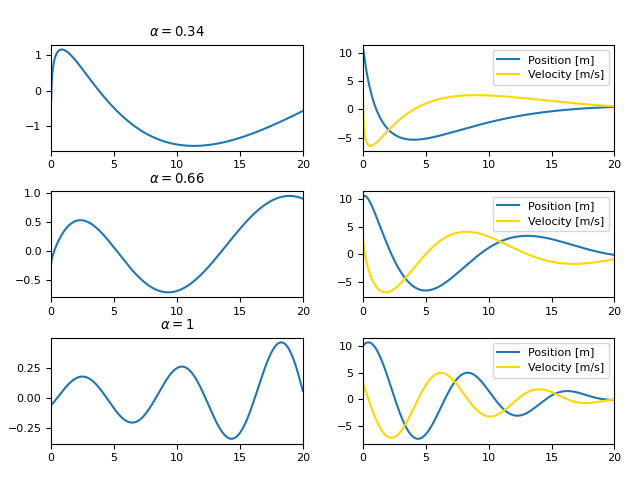
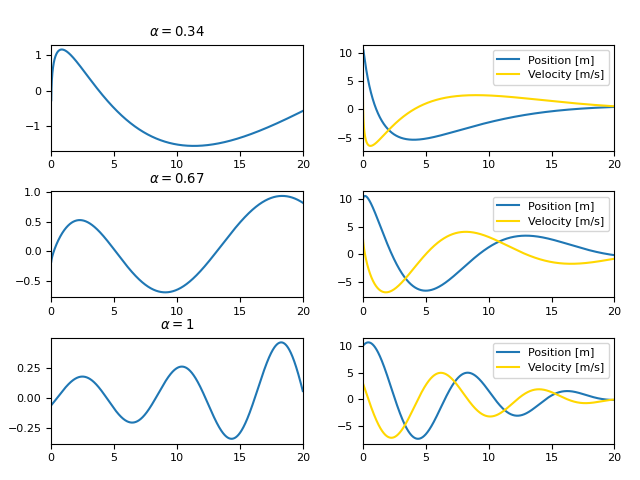
Reproduced examples

diff --git a/example4-4.py b/example4-4.py
@@ -1,0 +1,108 @@
+import numpy as np
+from numpy.ma import sin, cos
+import matplotlib.pyplot as plt
+from sys import argv
+
+def z1(t):
+	return np.piecewise(t, [0 <= t < 1, 1 <= t < 2, 2 <= t <= 3],
+					[lambda t: cos(2 * np.pi * t),
+					 lambda t: t ** 2 * (1 - t) / 2,
+					 lambda t: cos(4 * np.pi * t) / 2 + 1])
+
+def z2(t):
+	return np.piecewise(t, [0 <= t < 1, 1 <= t < 2, 2 <= t <= 3],
+					[lambda t: 1.2 * t ** 2 * (1 - t),
+					 lambda t: cos(2 * np.pi * t),
+					 lambda t: sin(4 * np.pi * t) / 5 - 0.5])
+
+def z(t):
+	return np.c_[[z1(t), z2(t)]]
+
+# setting up the system
+A = np.matrix('-9  4   4.5 -2;' \
+			  '-3  0.4 0.7 -6;' \
+			  ' 5  0.3 5    3;' \
+			  ' 4 -2.5 2    3', dtype=np.longdouble)
+B = np.matrix(' 1    1.5 0  ;' \
+			  ' 0.3  2   0.4;' \
+			  ' 0.3 -0.3 0  ;' \
+			  '-0.3 -1   0.5', dtype=np.longdouble)
+C = np.matrix(' 1 0 2  1;' \
+			  '-1 1 0 -1', dtype=np.longdouble)
+Q = 10 ** 4 * np.identity(2)
+tf = 3
+dt = 0.0005
+t_dis = np.arange(0, tf + dt, dt)
+Sf = np.zeros((4, 4))
+vf = np.zeros((4, 1))
+
+# these are the conformable derivatives we want
+alphas = [0.34, 0.67, 1]
+
+# set up plotting
+plt.rcParams["font.size"] = 8
+fig, axes = plt.subplots(len(alphas), 2)
+fig.tight_layout(rect=(0, 0, 1, 0.95), pad=1.5)
+
+# loop over rows of plot and alphas
+for axis, alpha in zip(axes, alphas):
+	# S is an empty array of matrices
+	# with last element given by Sf
+	S = np.empty((t_dis.size, 4, 4), dtype=np.longdouble)
+	S[-1] = Sf
+
+	# loop backward and do Euler's method to find S
+	# this solves the Ricatti equation
+	for i in range(t_dis.size - 1, 0, -1):
+		dSdt = -(dt * (i + 1)) ** (alpha - 1) * (A.T @ S[i] + S[i] @ (A - B @ B.T @ S[i]) + C.T @ Q @ C)
+		S[i - 1] = S[i] - dt * dSdt;
+
+	# v is an output equation or something idk
+	# it's needed to solve for stuff
+	# in example 4.1, it was 0
+	v = np.empty((t_dis.size, 4, 1), dtype=np.longdouble)
+	v[-1] = vf
+
+	for i in range(t_dis.size - 1, 0, -1):
+		dvdt = -(dt * (i + 1)) ** (alpha - 1) * ((A - B @ B.T @ S[i]).T @ v[i] + C.T @ Q @ z(dt * (i + 1)))
+		v[i - 1] = v[i] - dt * dvdt
+
+	# x is an array of column vectors
+	x = np.empty((t_dis.size, 4, 1), dtype=np.longdouble)
+	x[0] = np.c_[[-0.25, -0.5, 0.25, -0.3]]
+	# u is an array of real #s
+	u = np.empty((t_dis.size, 3, 1), dtype=np.longdouble)
+
+	# loop forward and solve state space equation
+	# this also uses Euler's method as far as I can tell
+	for i in range(0, t_dis.size - 1):
+		u[i] = -B.T @ S[i] @ x[i] + B.T @ v[i]
+		x[i + 1] = x[i] + (dt * (i + 2)) ** (alpha - 1) * dt * (A @ x[i] + B @ u[i])
+	u[-1] = -B.T @ S[-1] @ x[-1] + B.T @ v[-1]
+
+	# plot u1 and u2 (1st column)
+	axis[0].plot(t_dis, u[:,0], label='$u_1(t)$')
+	axis[0].plot(t_dis, u[:,1], label='$u_2(t)$', color='gold')
+	axis[0].plot(t_dis, u[:,2], label='$u_3(t)$', color='green')
+	axis[0].set_title(f'$\\alpha = {alpha}$')
+	axis[0].legend()
+	axis[0].margins(x=0)
+
+	# plot y1 and y2 (2nd column)
+	y = C @ x
+	axis[1].plot(t_dis, y[:,0], label='$y_1(t)$')
+	axis[1].plot(t_dis, y[:,1], label='$y_2(t)$', color='gold')
+	axis[1].legend()
+	axis[1].margins(x=0)
+
+# axes[0, 0].set_ylim(-10, 5.5)
+axes[0, 0].set_ylim(-15, 15)
+axes[0, 1].set_ylim(-2, 2)
+axes[1, 0].set_ylim(-15, 15)
+axes[2, 0].set_ylim(-15, 15)
+# you can use -s to save the plot to a file
+# generally you don't want to do this
+if len(argv) == 2 and argv[1] == '-s':
+	plt.savefig(argv[0][:-3] + '.png')
+else:
+	plt.show()

diff --git a/example4-3.py b/example4-3.py
@@ -1,0 +1,96 @@
+import numpy as np
+from numpy.ma import sin, cos
+import matplotlib.pyplot as plt
+from sys import argv
+
+def z(t):
+	return np.c_[[sin(t), cos(t)]]
+
+# setting up the system
+A = np.matrix(' 0.809 -2.060  0.325  0.465  0.895;' \
+			  ' 6.667  0.200  1.333  0      0.667;' \
+			  '-1.291  0.458 -1.072 -2.326 -0.199;' \
+			  '-0.324  0.824  1.670 -1.186 -0.358;' \
+			  '-3.509 -4.316 -0.702  0     -8.351')
+B = np.matrix(' 0.955 -0.379;' \
+			  '-1.667 -1.667;' \
+			  '-0.212  1.195;' \
+			  ' 0.618  0.052;' \
+			  ' 0.877  1.403')
+C = np.matrix('2 0   1 0   0;' \
+			  '0 1.5 0 1.2 1')
+Q = 10 ** 3 * np.identity(2)
+tf = 6
+dt = 0.001
+t_dis = np.arange(0, tf + dt, dt)
+Sf = np.zeros((5, 5))
+vf = np.zeros((5, 1))
+
+# these are the conformable derivatives we want
+alphas = [0.34, 0.67, 1]
+
+# set up plotting
+plt.rcParams["font.size"] = 8
+fig, axes = plt.subplots(len(alphas), 2)
+fig.tight_layout(rect=(0, 0, 1, 0.95), pad=1.5)
+
+# loop over rows of plot and alphas
+for axis, alpha in zip(axes, alphas):
+	# S is an empty array of matrices
+	# with last element given by Sf
+	S = np.empty((t_dis.size, 5, 5))
+	S[-1] = Sf
+
+	# loop backward and do Euler's method to find S
+	# this solves the Ricatti equation
+	for i in range(t_dis.size - 1, 0, -1):
+		dSdt = -(dt * (i + 1)) ** (alpha - 1) * (A.T @ S[i] + S[i] @ (A - B @ B.T @ S[i]) + C.T @ Q @ C)
+		S[i - 1] = S[i] - dt * dSdt;
+
+	# v is an output equation or something idk
+	# it's needed to solve for stuff
+	# in example 4.1, it was 0
+	v = np.empty((t_dis.size, 5, 1))
+	v[-1] = vf
+
+	for i in range(t_dis.size - 1, 0, -1):
+		dvdt = -(dt * (i + 1)) ** (alpha - 1) * ((A - B @ B.T @ S[i]).T @ v[i] + C.T @ Q @ z(dt * (i + 1)))
+		v[i - 1] = v[i] - dt * dvdt
+
+	# x is an array of column vectors
+	x = np.empty((t_dis.size, 5, 1))
+	x[0] = np.c_[[0.05, 0.05, 0.05, 0.05, 0.05]]
+	# u is an array of real #s
+	u = np.empty((t_dis.size, 2, 1))
+
+	# loop forward and solve state space equation
+	# this also uses Euler's method as far as I can tell
+	for i in range(0, t_dis.size - 1):
+		u[i] = -B.T @ S[i] @ x[i] + B.T @ v[i]
+		x[i + 1] = x[i] + (dt * (i + 2)) ** (alpha - 1) * dt * (A @ x[i] + B @ u[i])
+	u[-1] = -B.T @ S[-1] @ x[-1] + B.T @ v[-1]
+
+	# plot u1 and u2 (1st column)
+	axis[0].plot(t_dis, u[:,0], label='$u_1(t)$')
+	axis[0].plot(t_dis, u[:,1], label='$u_2(t)$', color='gold')
+	axis[0].set_title(f'$\\alpha = {alpha}$')
+	axis[0].legend()
+	axis[0].margins(x=0)
+
+	# plot y1 and y2 (2nd column)
+	y = C @ x
+	axis[1].plot(t_dis, y[:,0], label='$y_1(t)$')
+	axis[1].plot(t_dis, y[:,1], label='$y_2(t)$', color='gold')
+	axis[1].legend()
+	axis[1].margins(x=0)
+
+axes[0, 0].set_ylim(-10, 5.5)
+axes[0, 1].set_ylim(-1.2, 1.2)
+axes[1, 0].set_ylim(-10, 5.5)
+axes[2, 0].set_ylim(-10, 5.5)
+# you can use -s to save the plot to a file
+# generally you don't want to do this
+if len(argv) == 2 and argv[1] == '-s':
+	plt.savefig(argv[0][:-3] + '.png')
+else:
+	plt.show()

diff --git a/example4-2.py b/example4-2.py
@@ -15,7 +15,6 @@ A = np.matrix([[0, 1], [-omega ** 2, -2 * delta * omega]])
 B = np.c_[[0, 1]]
 C = np.matrix('1 0')
 q = 0.001
-r = 1
 p = 3
 tf = 50
 dt = 0.001
@@ -24,7 +23,7 @@ Sf = p * C.T @ C
 vf = C.T * p * z(tf)
 
 # these are the conformable derivatives we want
-alphas = [0.34, 0.66, 1]
+alphas = [0.34, 0.67, 1]
 
 # set up plotting
 plt.rcParams["font.size"] = 8
@@ -33,7 +32,7 @@ fig.tight_layout(rect=(0, 0, 1, 0.95), pad=1.5)
 
 # loop over rows of plot and alphas
 for axis, alpha in zip(axes, alphas):
-	# S is an empty array of 2x2 matrices
+	# S is an empty array of matrices
 	# with last element given by Sf
 	S = np.empty((t_dis.size, 2, 2))
 	S[-1] = Sf
@@ -44,13 +43,17 @@ for axis, alpha in zip(axes, alphas):
 		dSdt = -(dt * (i + 1)) ** (alpha - 1) * (A.T @ S[i] + S[i] @ A - S[i] @ B @ B.T @ S[i] + q * C.T @ C)
 		S[i - 1] = S[i] - dt * dSdt;
 
+	# v is an output equation or something idk
+	# it's needed to solve for stuff
+	# in example 4.1, it was 0
 	v = np.empty((t_dis.size, 2, 1))
 	v[-1] = vf
+
 	for i in range(t_dis.size - 1, 0, -1):
-		dvdt = -(dt * (i + 1)) ** (alpha - 1) * ((A - B @ B.T).T @ v[i] + q * C.T * z(dt * (i + 1)))
+		dvdt = -(dt * (i + 1)) ** (alpha - 1) * ((A - B @ B.T @ S[i]).T @ v[i] + q * C.T * z(dt * (i + 1)))
 		v[i - 1] = v[i] - dt * dvdt
 
-	# x is an array of 2x1 column vectors
+	# x is an array of column vectors
 	x = np.empty((t_dis.size, 2, 1))
 	x[0] = np.c_[[10, 3]]
 	# u is an array of real #s

diff --git a/example4-1.py b/example4-1.py
@@ -10,14 +10,13 @@ delta = 0.1
 A = np.matrix([[0, 1], [-omega ** 2, -2 * delta * omega]])
 B = np.c_[[0, 1]]
 Q = 0.001 * np.identity(2)
-r = 1
 tf = 20
 dt = 0.001
 t_dis = np.arange(0, tf + dt, dt)
 Sf = np.matrix('3 0; 0 1')
 
 # these are the conformable derivatives we want
-alphas = [0.34, 0.66, 1]
+alphas = [0.34, 0.67, 1]
 
 # set up plotting
 plt.rcParams["font.size"] = 8
@@ -26,7 +25,7 @@ fig.tight_layout(rect=(0, 0, 1, 0.95), pad=1.5)
 
 # loop over rows of plot and alphas
 for axis, alpha in zip(axes, alphas):
-	# S is an empty array of 2x2 matrices
+	# S is an empty array of matrices
 	# with last element given by Sf
 	S = np.empty((t_dis.size, 2, 2))
 	S[-1] = Sf
@@ -37,7 +36,7 @@ for axis, alpha in zip(axes, alphas):
 		dSdt = -(dt * (i + 1)) ** (alpha - 1) * (A.T @ S[i] + S[i] @ A - S[i] @ B @ B.T @ S[i] + Q)
 		S[i - 1] = S[i] - dt * dSdt;
 
-	# x is an array of 2x1 column vectors
+	# x is an array of column vectors
 	x = np.empty((t_dis.size, 2, 1))
 	x[0] = np.c_[[10, 3]]
 	# u is an array of real #s
@@ -64,6 +63,6 @@ for axis, alpha in zip(axes, alphas):
 # you can use -s to save the plot to a file
 # generally you don't want to do this
 if len(argv) == 2 and argv[1] == '-s':
-	plt.savefig('figure4-1.png')
+	plt.savefig(argv[0][:-3] + '.png')
 else:
 	plt.show()

diff --git a/README.md b/README.md
@@ -1,5 +1,6 @@
-Requires JiTCDDE:
+I have reproduced every example from the paper that Wintz gave us. \
+This was done using Euler's method, e.g. "hardcoding" the algorithm. \
+The jit* files require
 https://github.com/neurophysik/jitcdde \
-Much of the code right now is modified from \
+and use code modified from
 https://github.com/ettoremessina/differential-equations/tree/main/DDEs/solver-demos/python/jitcdde \
-I've been able to reproduce the plots from the poster in Python (yay!)
